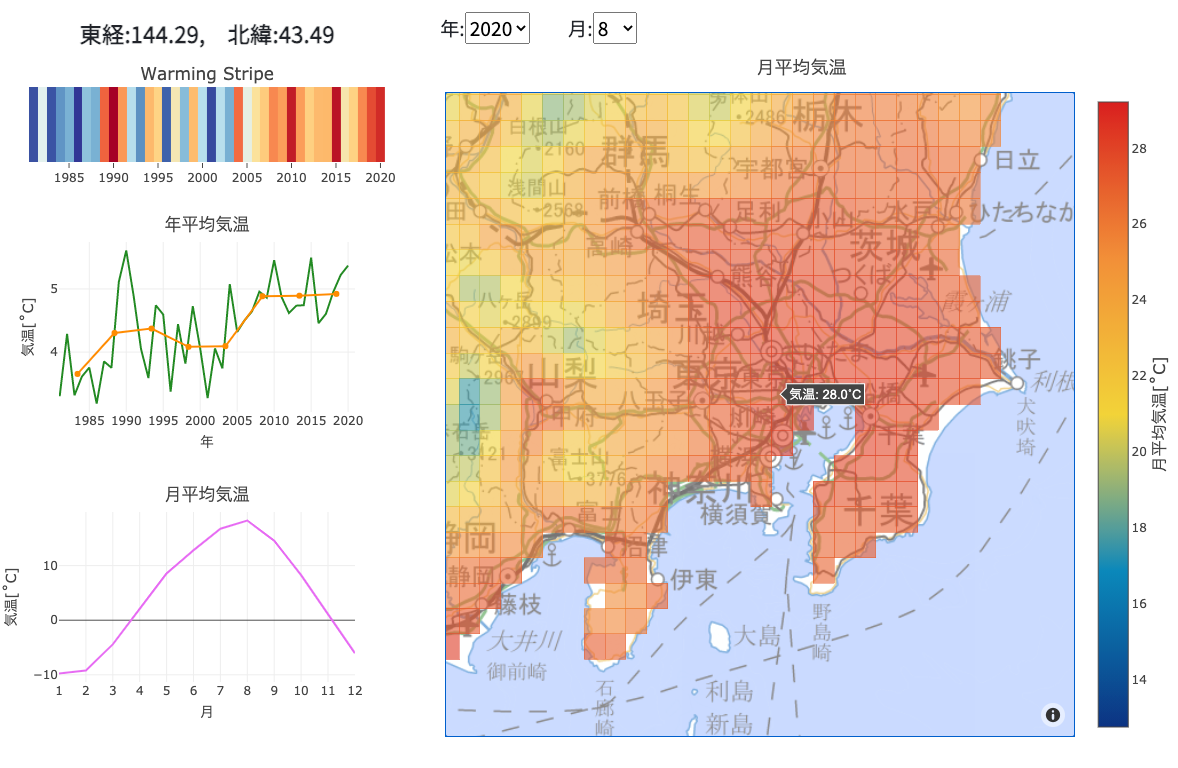
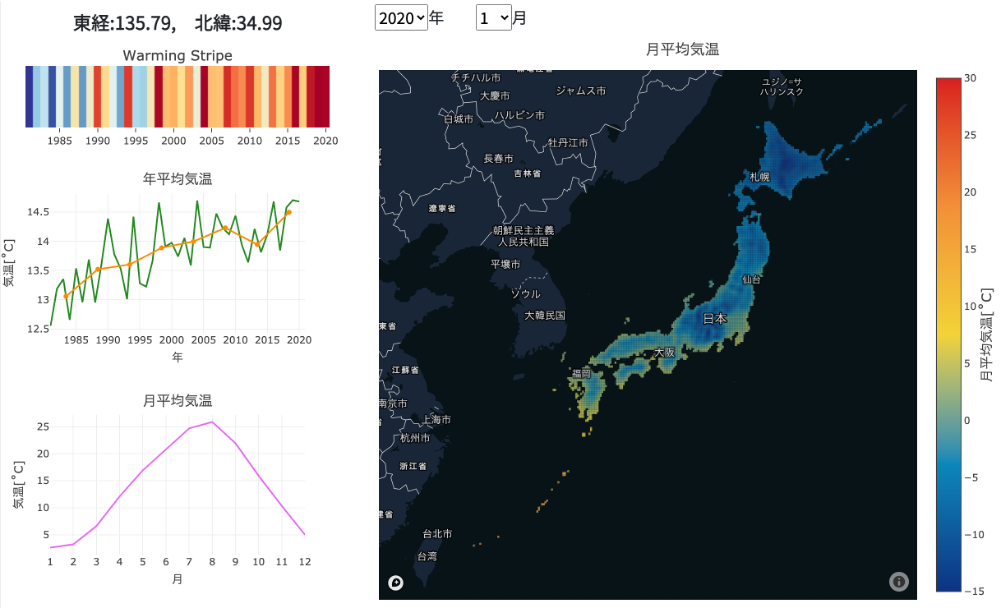
Update UI: Second.

diff --git a/scripts/main_era.js b/scripts/main_era.js
@@ -56,6 +56,8 @@ Plotly.d3.csv(data_fname, function(err,rows){
       geojson: geojson_url,
       locations: unpack(rows,'fips'),
       z: temp_Data,
+      zmax: 30,
+      zmin: -15,
       colorscale: "Portland",
       hovertemplate: '気温: %{z:.1f}˚C<extra></extra>',
       marker: {line:{width:0}, opacity:0.6},
@@ -63,29 +65,27 @@ Plotly.d3.csv(data_fname, function(err,rows){
         title:{text: "月平均気温[˚C]", side: "right", font:{size:16}}
       },
     }];
+    const mapbox_style = "mapbox://styles/notica06/cknd84i1t0dl517o7e7ask0b7";
     const layout_map = {
       mapbox: {
-        style: "white-bg", 
+        style: mapbox_style, 
         center: {lon: 134.5, lat: 35.5}, 
-        zoom: 3.8,
-        layers: [
-          {
-            sourcetype: "raster",
-            source: ["https://cyberjapandata.gsi.go.jp/xyz/pale/{z}/{x}/{y}.png"],
-            below: "traces",
-            opacity: 0.82,
-            sourceattribution: "<a href='https://maps.gsi.go.jp/development/ichiran.html' target='_blank'>地理院タイル</a>",
-          }
-        ],
+        zoom: 3.8
       },
+      margin: {l:30,r:30,t:45,b:10},
       title: {
         font: {size: 18},
         text: "月平均気温",
         y: 0.98,
       },
-      margin: {l:30,r:30,t:45,b:10},
     };
-    Plotly.newPlot('plot_map', data_map, layout_map, config_graph);
+    const myToken = "pk.eyJ1Ijoibm90aWNhMDYiLCJhIjoiY2tnZG5lbG9kMHE4MjJ1bXdlZ2Y3OGFoZiJ9.JyR6mvaJ5qeQTzN1dcsn5A";
+    const config_map = {
+      mapboxAccessToken: myToken,
+      responsive: true,
+      displayModeBar: false,
+    };
+    Plotly.newPlot('plot_map', data_map, layout_map, config_map);
   };
 
   //////////////////////////////////////////////

diff --git a/scripts/main_jma.js b/scripts/main_jma.js
@@ -41,19 +41,12 @@ Plotly.d3.csv(loc_data, function(err,rows){
       marker: { color: "#FFB11B", size: 7 },
       hoverinfo: 'text'
     }];
+    const mapbox_style = "mapbox://styles/notica06/cknd84i1t0dl517o7e7ask0b7";
     const layout_map = {
       mapbox: {
-        style: "white-bg", 
-        center: {lon: 134.5, lat: 35.5}, 
+        style: mapbox_style, 
+        center: {lon: 139, lat: 35.5}, 
         zoom: 3.2,
-        layers: [
-          {
-            sourcetype: "raster",
-            source: ["https://tile.mierune.co.jp/mierune/{z}/{x}/{y}.png"],
-            below: "traces",
-            sourceattribution: "Maptiles by <a href='http://mierune.co.jp/' target='_blank'>MIERUNE</a>",
-          }
-        ],
       },
       title: {
         font: {size: 18},
@@ -62,7 +55,9 @@ Plotly.d3.csv(loc_data, function(err,rows){
       },
       margin: {l:30,r:30,t:40,b:20},
     };
+    const myToken = "pk.eyJ1Ijoibm90aWNhMDYiLCJhIjoiY2tnZG5lbG9kMHE4MjJ1bXdlZ2Y3OGFoZiJ9.JyR6mvaJ5qeQTzN1dcsn5A";
     const config_map = {
+      mapboxAccessToken: myToken,
       responsive: true,
       displayModeBar: false,
     };

diff --git a/index.html b/index.html
@@ -46,7 +46,7 @@
 
           <div class='plotly_map'>
             <div class="control-row">
-              年:<select id="select_year" class="select"></select>　　月:<select id="select_month" class="select"></select>
+              <select id="select_year" class="select"></select>年　　<select id="select_month" class="select"></select>月
             </div>    
             <div id="plot_map"></div>
           </div>
